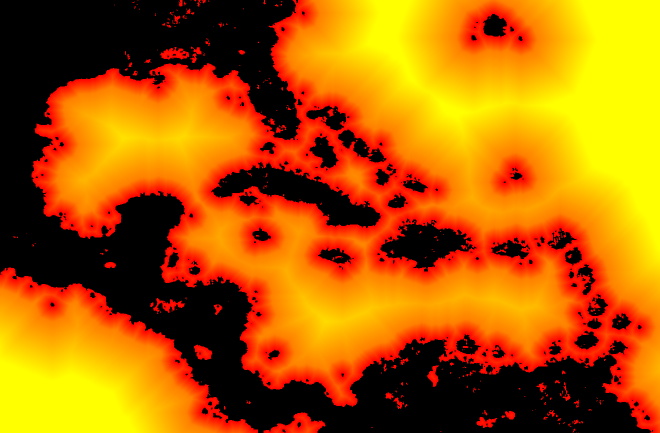
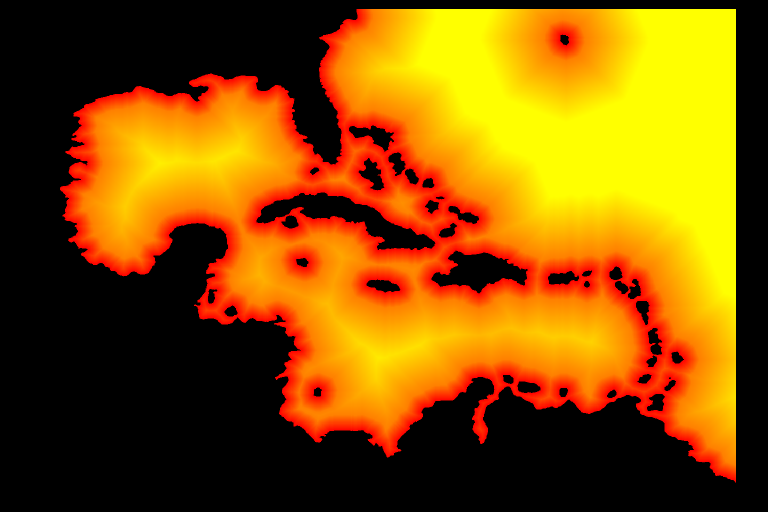
Carte : refaire la fiche de profondeur de la nappe animee
Dernier morceau laisse en suspens par le changement de decor, et signale comme
tel dans son commit. La fiche que lit le shader de la mer etait encore celle
d'avant -- avec DEUX defauts, venus du meme endroit :

 1. LA HAUTEUR. Elle fait 660 x 433. Elle a ete calculee quand le masque etait
    deduit de l'illustration (1320 x 866). Le masque livre est celui de Port
    Royale 3 : 1320 x 960, qui appelle 660 x 480.

 2. LE CADRE, plus sournois. `carte2d.gd` etire la fiche sur TOUTE l'image
    (`scale = proj.pixels / tex.size`, ancree en (0,0)). Or son contenu decrit
    le monde JOUABLE, alors que la carte de PR3 porte un cadre de bois hors de
    ce monde : l'image couvre 17280 x 11940 la ou le masque couvre
    15840 x 11520. Meme a la bonne hauteur, la nappe se serait decalee de la
    largeur du cadre. C'est le meme piege que `carte_eau.py` venait de me
    tendre.

On fabrique donc la fiche AUX PROPORTIONS DE L'IMAGE (768 x 512, le quart de
3072 x 2048) et on y insere le masque en son centre, au retrait que donne la
fiche de projection. Le moteur garde son etirement simple, et la connaissance du
cadrage reste dans les outils, ou vit deja tout le reste.

UN OUTIL A PART, et non une relance de `carte_illustree.py` : ce script part
d'une ILLUSTRATION et reecrit au passage `sim/carte_monde.lua` et
`carte_cuite.json`. Le relancer aujourd'hui remplacerait la geographie de PR3
par celle d'un dessin. On extrait la seule etape manquante. La recette ne change
[…]

diff --git a/outils/carte_mer.py b/outils/carte_mer.py
@@ -1,0 +1,160 @@
+# -*- coding: utf-8 -*-
+"""Refait `carte_cuite_mer.png`, la fiche que lit la nappe animee.
+
+    py -3 outils/carte_mer.py
+
+POURQUOI UN OUTIL A PART. Cette fiche etait produite par `carte_illustree.py`,
+en meme temps que le decor et le masque de navigation. Mais ce script-la part
+d'une ILLUSTRATION et reecrit au passage `sim/carte_monde.lua` et
+`carte_cuite.json` : le relancer aujourd'hui remplacerait la geographie de Port
+Royale 3 par celle d'un dessin. On extrait donc la seule etape qui nous manque.
+
+CE QUE LA FICHE CONTIENT (recette inchangee) :
+
+    rouge = la part d'EAU du bloc
+    vert  = la PLUS FAIBLE profondeur du bloc, en metres, sur 255 pour 60 m
+
+Le vert est une rampe, et son echelle est tout le sujet : le shader ne lit pas
+une distance mais des METRES, et il en tire trois bandes aux seuils fixes -- le
+ressac sous 3,2 m, le passage au large entre 1,5 et 9 m, les moutons qui
+s'eteignent a 30 m. Toute la vie de la nappe tient dans ces trente premiers
+metres. D'ou une case = un metre sur le plateau, puis une montee lente jusqu'au
+fond, pour que le large reste le large.
+
+DEUX DEFAUTS QUE CET OUTIL CORRIGE, et qui venaient du meme endroit :
+
+ 1. LA HAUTEUR. La fiche en place fait 660 x 433. Elle a ete calculee quand le
+    masque etait deduit de l'illustration (1320 x 866). Le masque livre est
+    celui de PR3 : 1320 x 960.
+
+ 2. LE CADRE. `carte2d.gd` etire la fiche sur TOUTE l'image
+    (`scale = proj.pixels / tex.size`, ancree en (0,0)). Or son contenu decrit
+    le monde JOUABLE, alors que la carte de PR3 porte un cadre de bois hors de
+    ce monde : l'image couvre 17280 x 11940 la ou le masque couvre
+    15840 x 11520. Etiree bord a bord, la nappe se decalerait de la largeur du
+    cadre. On fabrique donc la fiche AUX PROPORTIONS DE L'IMAGE et on y insere
+    le masque en son centre, au retrait que donne la fiche de projection. Le
+    moteur garde son etirement simple, et le cadrage reste ou vit deja tout le
+    reste : dans les outils.
+
+Aucune dependance : bibliotheque standard uniquement.
+"""
+import importlib.util
+import io
+import json
+import os
+import re
+import sys
+
+RACINE = os.path.dirname(os.path.dirname(os.path.abspath(__file__)))
+
+_spec = importlib.util.spec_from_file_location(
+    "carte_illustree", os.path.join(RACINE, "outils", "carte_illustree.py"))
+ci = importlib.util.module_from_spec(_spec)
+_spec.loader.exec_module(ci)
+
+ECHELLE_CASE = 12.0        # unites de monde par case (sim/archipel.lua)
+REDUCTION = 4              # la fiche fait le quart de l'image, comme avant
+PLATEAU, FOND = 30.0, 150.0    # en cases
+NL = chr(10)
+
+
+def lire_masque():
+    """(largeur, hauteur, terre) depuis le RLE de `sim/carte_monde.lua`."""
+    src = io.open(os.path.join(RACINE, "sim", "carte_monde.lua"),
+                  encoding="utf-8").read()
+    mw, mh = map(int, re.search(
+        r"Carte\.largeur,\s*Carte\.hauteur\s*=\s*(\d+),\s*(\d+)", src).groups())
+    bloc = src.split("Carte.plages = {", 1)[1].split(NL + "}", 1)[0]
+    terre = bytearray(mw * mh)
+    for z, ligne in enumerate(re.findall(r"\{([0-9,\s]+)\}", bloc)):
+        x, valeur = 0, 0
+        for n in (int(t) for t in ligne.split(",") if t.strip()):
+            if valeur:
+                for k in range(x, min(x + n, mw)):
+                    terre[z * mw + k] = 1
+            x += n
+            valeur = 1 - valeur
+    return mw, mh, terre
+
+
+def metres(cases):
+    """Un metre par case sur le plateau, puis une montee lente jusqu'au fond."""
+    if cases <= PLATEAU:
+        return cases
+    if cases >= FOND:
+        return 60.0
+    return 30.0 + 30.0 * (cases - PLATEAU) / (FOND - PLATEAU)
+
+
+def main():
+    fiche = json.load(io.open(os.path.join(RACINE, "carte_cuite.json"),
+                              encoding="utf-8"))
+    vue = fiche["vue_taille"]
+    pixels = fiche["pixels"]
+    centre = fiche.get("centre", [0.0, 0.0])
+    if abs(centre[0]) > 0.5 or abs(centre[1]) > 0.5:
+        raise SystemExit("centre non nul : cet outil suppose [0, 0]")
+
+    mw, mh, terre = lire_masque()
+    fw, fh = pixels[0] // REDUCTION, pixels[1] // REDUCTION
+    print("masque %d x %d   image %d x %d   fiche %d x %d"
+          % (mw, mh, pixels[0], pixels[1], fw, fh))
+    print("   monde du masque %.0f x %.0f, monde de l'image %.0f x %.0f"
+          % (mw * ECHELLE_CASE, mh * ECHELLE_CASE, vue[0], vue[1]))
+
+    mer = [not terre[i] for i in range(mw * mh)]
+    prof = ci.chanfrein(mer, mw, mh)        # le chanfrein compte 5 par case
+
+    # Ou le monde jouable tombe DANS la fiche : le masque n'occupe pas toute
+    # l'image, il en occupe la part que la fiche de projection lui donne.
+    part_x = mw * ECHELLE_CASE / vue[0]
+    part_y = mh * ECHELLE_CASE / vue[1]
+    print("   le masque occupe %.2f %% x %.2f %% de l'image"
+          % (100.0 * part_x, 100.0 * part_y))
+
+    # On accumule PAR PIXEL de la fiche, en parcourant les cases : cela vaut
+    # pour n'importe quel rapport entre les deux grilles, la ou l'ancienne
+    # version supposait des blocs de 2x2 exactement.
+    eaux = [0] * (fw * fh)
+    total = [0] * (fw * fh)
+    creux = [None] * (fw * fh)
+    for cz in range(mh):
+        v = (cz + 0.5) / mh - 0.5
+        py = int((0.5 + v * part_y) * fh)
+        if not (0 <= py < fh):
+            continue
+        for cx in range(mw):
+            u = (cx + 0.5) / mw - 0.5
+            px = int((0.5 + u * part_x) * fw)
+            if not (0 <= px < fw):
+                continue
+            j = py * fw + px
+            total[j] += 1
+            i = cz * mw + cx
+            if mer[i]:
+                eaux[j] += 1
+                c = prof[i] / 5.0
+                # La PLUS FAIBLE profondeur du bloc : une bande etroite ne doit
+                # jamais disparaitre entre deux echantillons.
+                if creux[j] is None or c < creux[j]:
+                    creux[j] = c
+
+    sortie = bytearray(fw * fh * 3)
+    remplis = 0
+    for j in range(fw * fh):
+        if total[j] == 0 or eaux[j] == 0:
+            continue                 # hors du monde jouable, ou terre pleine
+        remplis += 1
+        k = j * 3
+        sortie[k] = eaux[j] * 255 // total[j]
+        sortie[k + 1] = int(round(metres(creux[j]) * 255.0 / 60.0))
+    print("   %d pixels d'eau sur %d (%.1f %%)"
+          % (remplis, fw * fh, 100.0 * remplis / (fw * fh)))
+
+    ci.ecrire_png(os.path.join(RACINE, "carte_cuite_mer.png"), fw, fh, sortie)
+    print("carte_cuite_mer.png : %d x %d" % (fw, fh))
+
+
+if __name__ == "__main__":
+    main()
